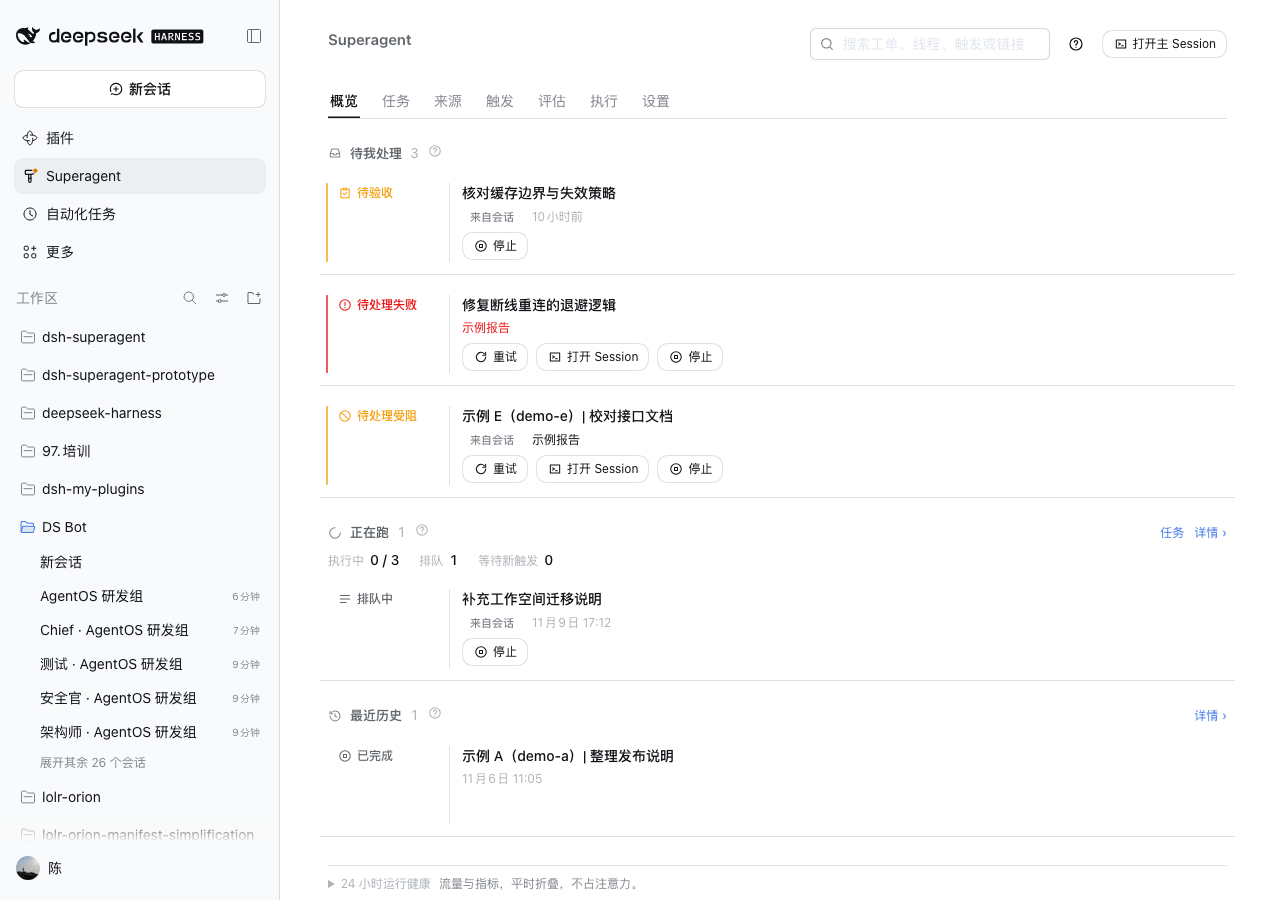
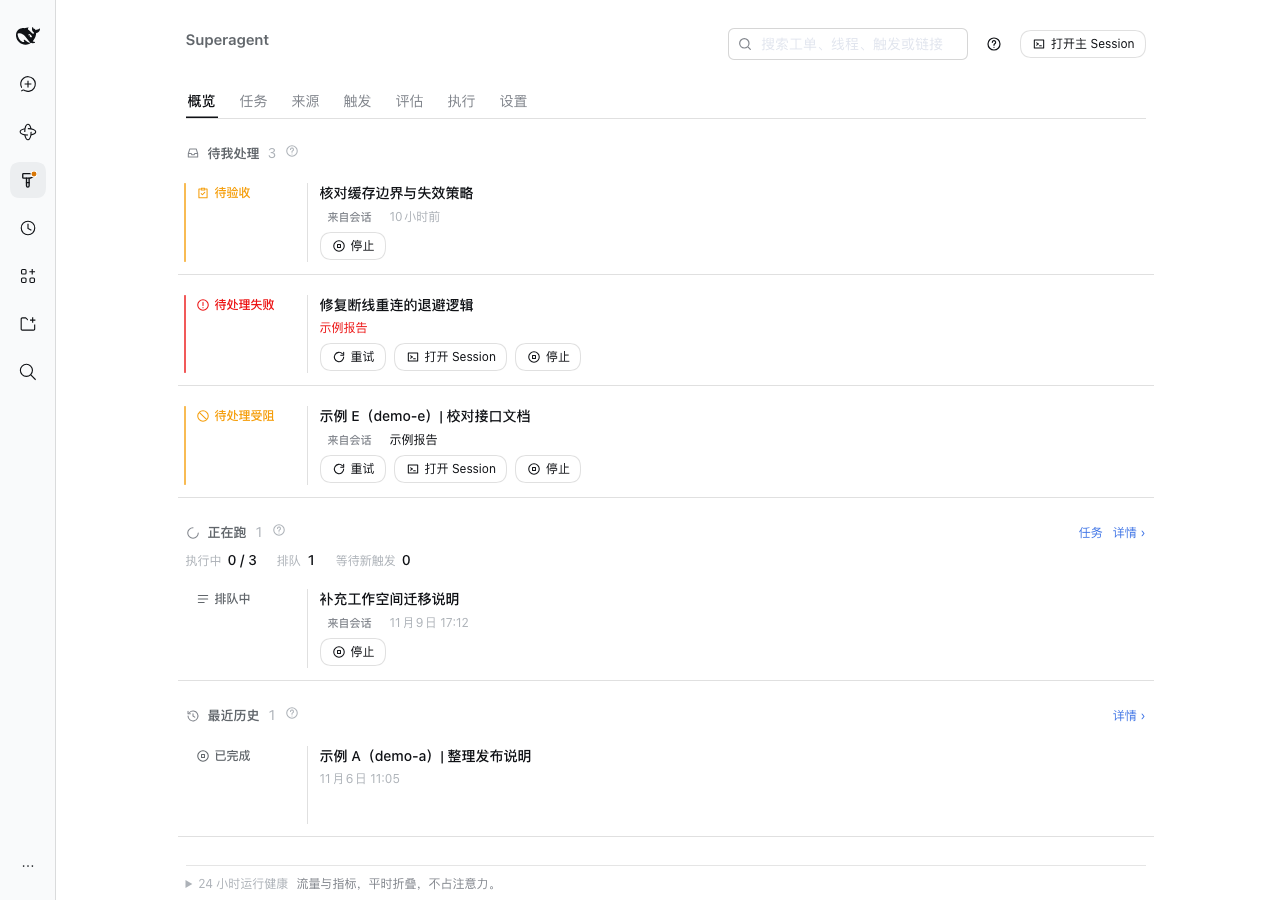
docs(panel): use sanitized screenshots for X-09

diff --git a/docs/005-panel.md b/docs/005-panel.md
@@ -53,7 +53,7 @@ Flow counts and the five health figures keep their old links but start folded un
 | --- | --- |
 | ![The flat Overview with pending Tickets, flow, health and Executor sections](images/entry-three-zones/before.png) | ![The same state in the three entry zones with health folded and a sidebar dot](images/entry-three-zones/after.png) |
 
-Same 1280×900 viewport, light theme, left sidebar expanded and one sanitized demo state: three person-stage tickets, one queued ticket, one ended ticket, synthetic titles and no work content. Both runs start from a byte-identical copy of the same `orchestrator.sqlite`. Before is main `567ac43`, where the home page is the flat Overview and the panel icon carries no dot; after is this branch, with **Waiting for you / Running / Recently ended**, the health figures folded, and the warning dot on the Superagent icon.
+Same 1280×900 viewport, light theme, left sidebar collapsed to its icon rail (so no private session names appear) and one sanitized demo state: three person-stage tickets, one queued ticket, one ended ticket, synthetic titles and no work content. Both runs start from a byte-identical copy of the same `orchestrator.sqlite`. Before is main `567ac43`, where the home page is the flat Overview and the panel icon carries no dot; after is this branch, with **Waiting for you / Running / Recently ended**, the health figures folded, and the warning dot on the Superagent icon in the rail.
 
 ### Approvals
 
